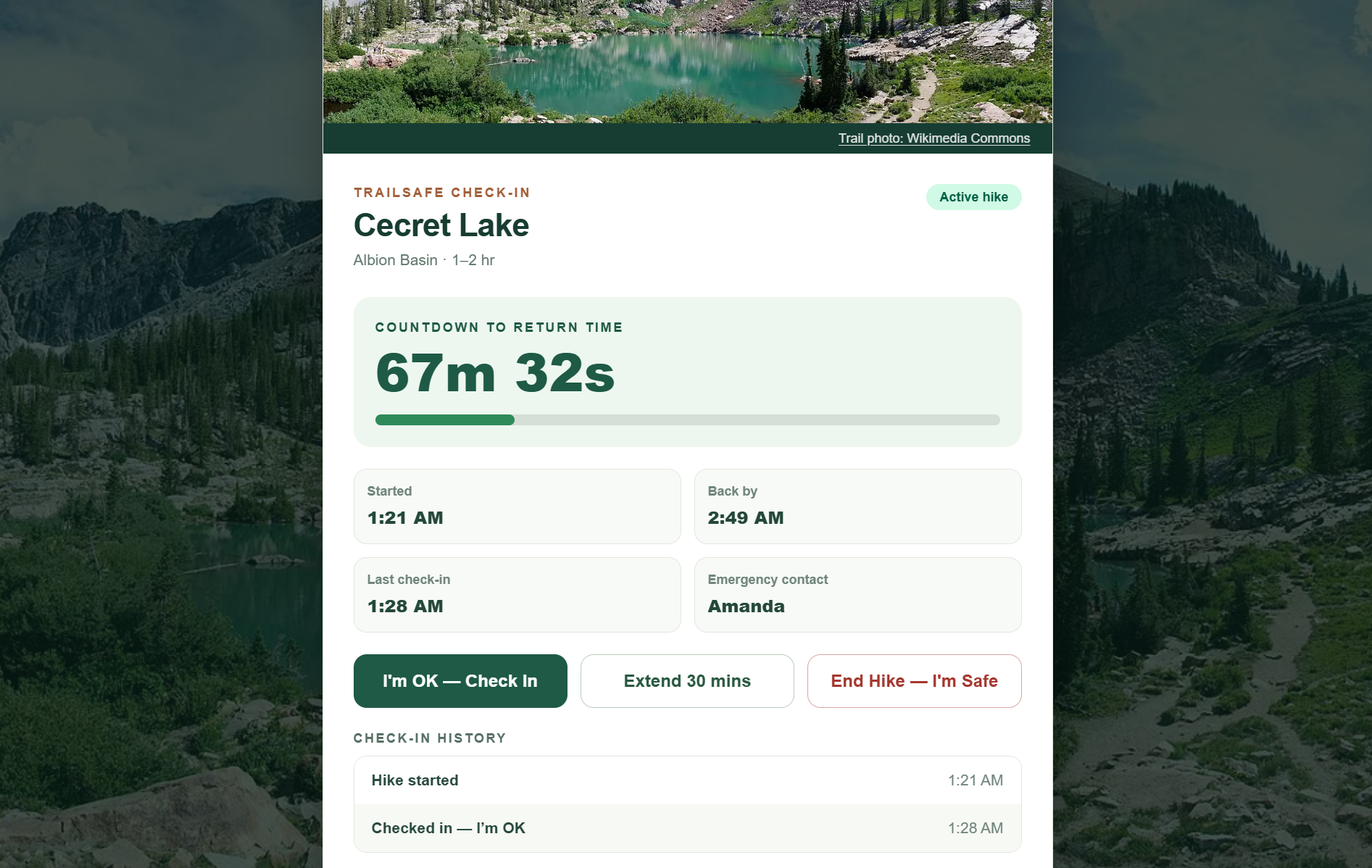
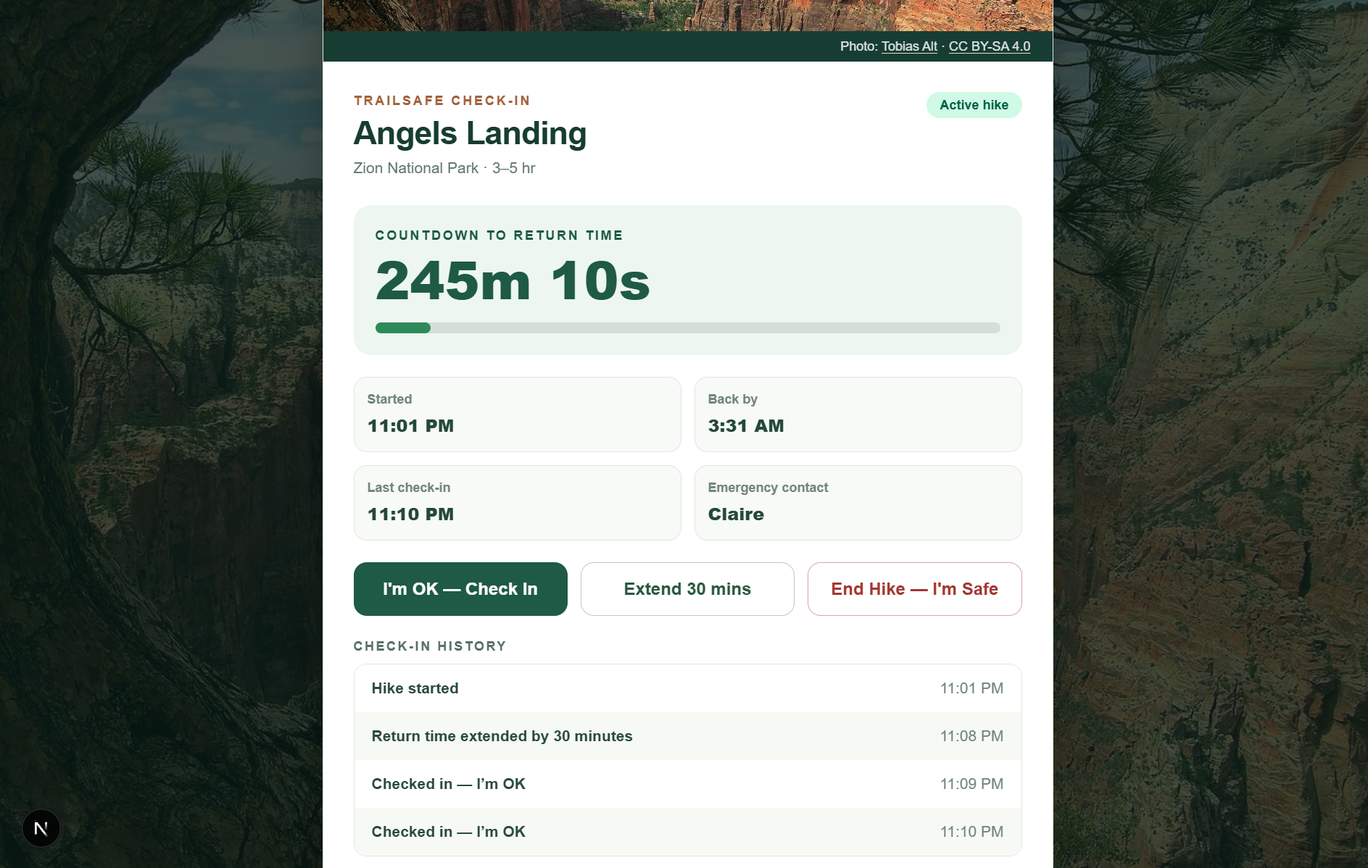
Update authentic Utah trail images and README screenshots

diff --git a/src/components/safety-flow.tsx b/src/components/safety-flow.tsx
@@ -86,7 +86,7 @@ export function SafetyFlow({ trail, assessment }: { trail: Trail; assessment: Tr
 
   if (!hydrated) return <main className="min-h-screen bg-[#f7f5ef] p-6"><div className="mx-auto h-96 max-w-2xl animate-pulse rounded-3xl bg-[#e5ece2]" /></main>;
   if (status === "alerted") return <AlertExperience trail={trail} image={museImage} imageFailed={imageFailed} alertText={alertText} contactName={contactName} contactPhone={contactPhone} alertTriggeredAt={alertTriggeredAt} onImageError={() => setImageFailed(true)} onEnd={endHike} />;
-  return <main className="relative isolate min-h-[100dvh] bg-[#102a22] px-5 py-7 sm:px-8"><ScenicBackground src={museImage?.src ?? trail.image} imageFailed={imageFailed} onImageError={() => setImageFailed(true)} /><div className="relative z-10 mx-auto max-w-2xl"><Link href={`/trails/${trail.id}`} className="inline-flex rounded-lg bg-white/90 px-2 py-1 text-sm font-bold text-[#31604d] focus-visible:outline-4 focus-visible:outline-offset-4 focus-visible:outline-[#73a98c]">← Back to trail details</Link><div className="mt-5 overflow-hidden rounded-[2rem] border border-[#dce6d9] bg-white shadow-[0_16px_45px_rgba(0,0,0,0.3)]"><div className="relative h-52"><Image src={museImage?.src ?? trail.image} alt={museImage?.alt ?? trail.imageAlt} fill sizes="(max-width: 640px) 100vw, 672px" className="object-cover" priority onError={() => setImageFailed(true)} /></div>{museImage && <a href={museImage.sourceUrl} target="_blank" rel="noreferrer" className="block bg-[#173d32] px-5 py-1.5 text-right text-xs text-white/85 underline underline-offset-2">Trail photo: Wikimedia Commons</a>}<div className="p-5 sm:p-7"><div className="flex flex-wrap items-start justify-between gap-3"><div><p className="text-xs font-bold uppercase tracking-[0.16em] text-[#a4613c]">TrailSafe check-in</p><h1 className="mt-1 text-3xl font-bold tracking-tight text-[#173d32]">{trail.name}</h1><p className="mt-1 text-sm text-[#60786d]">{trail.location} · {trail.duration}</p></div>{status === "setup" ? <SafetyBadge category={assessment.category} /> : <span className={`rounded-full px-3 py-1 text-xs font-bold ${status === "overdue" ? "bg-red-100 text-red-800" : "bg-emerald-100 text-emerald-800"}`}>{statusLabel}</span>}</div>{status === "setup" && <SetupPanel trail={trail} assessment={assessment} unavailable={isUnavailable} hikerName={hikerName} contactName={contactName} contactPhone={contactPhone} partySize={partySize} demoMode={demoMode} returnTime={returnTime} mapUrl={mapUrl} onHikerName={setHikerName} onContactName={setContactName} onContactPhone={setContactPhone} onPartySize={setPartySize} onDemoMode={setDemoMode} onReturnTime={setReturnTime} onStart={startHike} />}{status === "active" || status === "overdue" ? <ActivePanel overdue={status === "overdue"} startTime={startTime} expectedReturn={expectedReturn} lastCheckIn={lastCheckIn} virtualNow={virtualNow} demoMode={demoMode} contactName={contactName} history={history} proposedReturnTime={proposedReturnTime} deadlineError={deadlineError} onProposedReturnTime={setProposedReturnTime} onCheckIn={checkIn} onExtend={extend} onEnd={endHike} /> : null}{status === "completed" && <CompletedPanel onReset={reset} />}</div></div></div></main>;
+  return <main className="relative isolate min-h-[100dvh] bg-[#102a22] px-5 py-7 sm:px-8"><ScenicBackground src={museImage?.src ?? trail.image} imageFailed={imageFailed} onImageError={() => setImageFailed(true)} /><div className="relative z-10 mx-auto max-w-2xl"><Link href={`/trails/${trail.id}`} className="inline-flex rounded-lg bg-white/90 px-2 py-1 text-sm font-bold text-[#31604d] focus-visible:outline-4 focus-visible:outline-offset-4 focus-visible:outline-[#73a98c]">← Back to trail details</Link><div className="mt-5 overflow-hidden rounded-[2rem] border border-[#dce6d9] bg-white shadow-[0_16px_45px_rgba(0,0,0,0.3)]"><div className="relative h-52"><Image src={museImage?.src ?? trail.image} alt={museImage?.alt ?? trail.imageAlt} fill sizes="(max-width: 640px) 100vw, 672px" className="object-cover" priority onError={() => setImageFailed(true)} /></div>{museImage && <PhotoCredit image={museImage} dark /> }<div className="p-5 sm:p-7"><div className="flex flex-wrap items-start justify-between gap-3"><div><p className="text-xs font-bold uppercase tracking-[0.16em] text-[#a4613c]">TrailSafe check-in</p><h1 className="mt-1 text-3xl font-bold tracking-tight text-[#173d32]">{trail.name}</h1><p className="mt-1 text-sm text-[#60786d]">{trail.location} · {trail.duration}</p></div>{status === "setup" ? <SafetyBadge category={assessment.category} /> : <span className={`rounded-full px-3 py-1 text-xs font-bold ${status === "overdue" ? "bg-red-100 text-red-800" : "bg-emerald-100 text-emerald-800"}`}>{statusLabel}</span>}</div>{status === "setup" && <SetupPanel trail={trail} assessment={assessment} unavailable={isUnavailable} hikerName={hikerName} contactName={contactName} contactPhone={contactPhone} partySize={partySize} demoMode={demoMode} returnTime={returnTime} mapUrl={mapUrl} onHikerName={setHikerName} onContactName={setContactName} onContactPhone={setContactPhone} onPartySize={setPartySize} onDemoMode={setDemoMode} onReturnTime={setReturnTime} onStart={startHike} />}{status === "active" || status === "overdue" ? <ActivePanel overdue={status === "overdue"} startTime={startTime} expectedReturn={expectedReturn} lastCheckIn={lastCheckIn} virtualNow={virtualNow} demoMode={demoMode} contactName={contactName} history={history} proposedReturnTime={proposedReturnTime} deadlineError={deadlineError} onProposedReturnTime={setProposedReturnTime} onCheckIn={checkIn} onExtend={extend} onEnd={endHike} /> : null}{status === "completed" && <CompletedPanel onReset={reset} />}</div></div></div></main>;
 }
 
 function SetupPanel(props: { trail: Trail; assessment: TrailSafetyAssessment; unavailable: boolean; hikerName: string; contactName: string; contactPhone: string; partySize: number; demoMode: boolean; returnTime: string; mapUrl: string; onHikerName: (value: string) => void; onContactName: (value: string) => void; onContactPhone: (value: string) => void; onPartySize: (value: number) => void; onDemoMode: (value: boolean) => void; onReturnTime: (value: string) => void; onStart: () => void }) {
@@ -106,14 +106,15 @@ function ActivePanel({ overdue, startTime, expectedReturn, lastCheckIn, virtualN
 }
 
 function TimelineCard({ label, value, detail }: { label: string; value: string; detail?: string }) { return <article className="min-w-0 rounded-xl border border-[#e0e7dd] bg-[#f8faf7] p-3"><p className="text-xs font-semibold text-[#71867c]">{label}</p><p className="mt-1 truncate text-sm font-extrabold text-[#24483a] sm:text-base">{value}</p>{detail && <p className="mt-0.5 text-xs text-[#71867c]">{detail}</p>}</article>; }
+function PhotoCredit({ image, dark = false }: { image: { sourceUrl: string; photographer: string; license: string; licenseUrl: string }; dark?: boolean }) { const tone = dark ? "bg-[#173d32] text-white/85" : "text-[#47675a]"; return <p className={`block px-5 py-1.5 text-right text-xs ${tone}`}>Photo: <a href={image.sourceUrl} target="_blank" rel="noreferrer" className="underline underline-offset-2">{image.photographer}</a> · <a href={image.licenseUrl} target="_blank" rel="noreferrer" className="underline underline-offset-2">{image.license}</a></p>; }
 function ScenicBackground({ src, imageFailed, onImageError }: { src: string; imageFailed: boolean; onImageError: () => void }) { return <div className="pointer-events-none fixed inset-0 z-0 bg-[#102a22]" aria-hidden="true">{!imageFailed && <Image src={src} alt="" fill sizes="100vw" className="object-cover object-center" priority onError={onImageError} />}<div className="absolute inset-0 bg-[#071a15]/75" /></div>; }
-function AlertExperience({ trail, image, imageFailed, alertText, contactName, contactPhone, alertTriggeredAt, onImageError, onEnd }: { trail: Trail; image?: { src: string; alt: string; sourceUrl: string }; imageFailed: boolean; alertText: string; contactName: string; contactPhone: string; alertTriggeredAt: number | null; onImageError: () => void; onEnd: () => void }) {
+function AlertExperience({ trail, image, imageFailed, alertText, contactName, contactPhone, alertTriggeredAt, onImageError, onEnd }: { trail: Trail; image?: { src: string; alt: string; sourceUrl: string; photographer: string; license: string; licenseUrl: string }; imageFailed: boolean; alertText: string; contactName: string; contactPhone: string; alertTriggeredAt: number | null; onImageError: () => void; onEnd: () => void }) {
   const imageSource = image?.src ?? trail.image;
   const imageAlt = image?.alt ?? trail.imageAlt;
   const contactLabel = contactName.trim() || "Emergency contact";
   const simulatedAt = alertTriggeredAt ? formatTime(alertTriggeredAt) : "just now";
 
-  return <main className="relative isolate flex min-h-[100dvh] items-center justify-center overflow-hidden bg-[#102a22] px-4 py-6 sm:p-8"><ScenicBackground src={imageSource} imageFailed={imageFailed} onImageError={onImageError} /><section aria-labelledby="simulated-alert-heading" className="relative z-10 w-full max-w-[42rem] overflow-hidden rounded-[2rem] border border-white/20 bg-[#fffdf9] shadow-[0_28px_90px_rgba(0,0,0,0.45)]"><header className="flex items-center justify-between gap-4 px-5 py-4 sm:px-7"><p className="text-2xl font-extrabold tracking-tight text-[#173d32]">TrailSafe UT</p><span className="rounded-full bg-red-600 px-3 py-1.5 text-xs font-extrabold tracking-wide text-white">SIMULATED ALERT</span></header><div className="relative h-44 bg-[#24483a] sm:h-52">{!imageFailed && <Image src={imageSource} alt={imageAlt} fill sizes="(max-width: 672px) 100vw, 672px" className="object-cover" priority onError={onImageError} />}<div className="absolute inset-0 bg-gradient-to-t from-black/25 to-transparent" /></div><div className="space-y-5 p-5 sm:p-7"><div><p className="text-xs font-extrabold uppercase tracking-[0.18em] text-red-700">Overdue hike response</p><h1 id="simulated-alert-heading" className="mt-2 text-3xl font-extrabold tracking-tight text-red-600 sm:text-4xl">{contactLabel} — Alert Preview</h1><p className="mt-3 text-sm leading-6 text-[#4e655b]">This preview is generated from the saved hike plan. Trailhead information is planned, not live location tracking.</p></div><section aria-labelledby="alert-message-heading" className="rounded-2xl border border-red-200 bg-red-50 p-4 text-[#271510] sm:p-5"><h2 id="alert-message-heading" className="text-sm font-extrabold uppercase tracking-[0.14em] text-red-700">Simulated emergency message</h2><p className="mt-3 text-sm leading-6 sm:text-base">{alertText}</p></section><section aria-labelledby="messages-heading" className="overflow-hidden rounded-2xl border border-[#d9e3dc] bg-[#f7faf8]"><div className="flex items-start justify-between gap-3 border-b border-[#d9e3dc] bg-white px-4 py-3"><div><h2 id="messages-heading" className="font-extrabold text-[#173d32]">Messages</h2><p className="text-sm text-[#61756b]">To: {contactLabel}{contactPhone.trim() ? ` · ${contactPhone}` : " · no phone number provided"}</p></div><span className="shrink-0 rounded-full bg-[#d9f6e3] px-2.5 py-1 text-[11px] font-extrabold tracking-wide text-[#17613e]">SIMULATED SMS</span></div><div className="p-4"><div className="rounded-2xl rounded-bl-md bg-[#d9f6e3] px-4 py-3 text-sm leading-6 text-[#173d32] shadow-sm">{alertText}</div><p className="mt-3 text-right text-xs font-medium text-[#61756b]">Simulated at {simulatedAt} — No SMS was sent.</p></div></section><p className="rounded-xl border border-amber-200 bg-amber-50 px-3 py-2.5 text-center text-xs font-bold text-amber-950">Demo simulation only — no emergency message has been sent or will be sent.</p><button type="button" onClick={onEnd} className="w-full rounded-xl bg-[#173d32] px-5 py-4 text-base font-extrabold text-white transition hover:bg-[#0d2920] focus-visible:outline-4 focus-visible:outline-offset-4 focus-visible:outline-[#7db996] motion-reduce:transition-none">I&apos;m Safe — End Hike</button>{image && <a href={image.sourceUrl} target="_blank" rel="noreferrer" className="block text-center text-xs font-semibold text-[#47675a] underline underline-offset-4 focus-visible:rounded focus-visible:outline-4 focus-visible:outline-offset-2 focus-visible:outline-[#7db996]">Trail photo: Wikimedia Commons</a>}</div></section></main>;
+  return <main className="relative isolate flex min-h-[100dvh] items-center justify-center overflow-hidden bg-[#102a22] px-4 py-6 sm:p-8"><ScenicBackground src={imageSource} imageFailed={imageFailed} onImageError={onImageError} /><section aria-labelledby="simulated-alert-heading" className="relative z-10 w-full max-w-[42rem] overflow-hidden rounded-[2rem] border border-white/20 bg-[#fffdf9] shadow-[0_28px_90px_rgba(0,0,0,0.45)]"><header className="flex items-center justify-between gap-4 px-5 py-4 sm:px-7"><p className="text-2xl font-extrabold tracking-tight text-[#173d32]">TrailSafe UT</p><span className="rounded-full bg-red-600 px-3 py-1.5 text-xs font-extrabold tracking-wide text-white">SIMULATED ALERT</span></header><div className="relative h-44 bg-[#24483a] sm:h-52">{!imageFailed && <Image src={imageSource} alt={imageAlt} fill sizes="(max-width: 672px) 100vw, 672px" className="object-cover" priority onError={onImageError} />}<div className="absolute inset-0 bg-gradient-to-t from-black/25 to-transparent" /></div>{image && <PhotoCredit image={image} />}<div className="space-y-5 p-5 sm:p-7"><div><p className="text-xs font-extrabold uppercase tracking-[0.18em] text-red-700">Overdue hike response</p><h1 id="simulated-alert-heading" className="mt-2 text-3xl font-extrabold tracking-tight text-red-600 sm:text-4xl">{contactLabel} — Alert Preview</h1><p className="mt-3 text-sm leading-6 text-[#4e655b]">This preview is generated from the saved hike plan. Trailhead information is planned, not live location tracking.</p></div><section aria-labelledby="alert-message-heading" className="rounded-2xl border border-red-200 bg-red-50 p-4 text-[#271510] sm:p-5"><h2 id="alert-message-heading" className="text-sm font-extrabold uppercase tracking-[0.14em] text-red-700">Simulated emergency message</h2><p className="mt-3 text-sm leading-6 sm:text-base">{alertText}</p></section><section aria-labelledby="messages-heading" className="overflow-hidden rounded-2xl border border-[#d9e3dc] bg-[#f7faf8]"><div className="flex items-start justify-between gap-3 border-b border-[#d9e3dc] bg-white px-4 py-3"><div><h2 id="messages-heading" className="font-extrabold text-[#173d32]">Messages</h2><p className="text-sm text-[#61756b]">To: {contactLabel}{contactPhone.trim() ? ` · ${contactPhone}` : " · no phone number provided"}</p></div><span className="shrink-0 rounded-full bg-[#d9f6e3] px-2.5 py-1 text-[11px] font-extrabold tracking-wide text-[#17613e]">SIMULATED SMS</span></div><div className="p-4"><div className="rounded-2xl rounded-bl-md bg-[#d9f6e3] px-4 py-3 text-sm leading-6 text-[#173d32] shadow-sm">{alertText}</div><p className="mt-3 text-right text-xs font-medium text-[#61756b]">Simulated at {simulatedAt} — No SMS was sent.</p></div></section><p className="rounded-xl border border-amber-200 bg-amber-50 px-3 py-2.5 text-center text-xs font-bold text-amber-950">Demo simulation only — no emergency message has been sent or will be sent.</p><button type="button" onClick={onEnd} className="w-full rounded-xl bg-[#173d32] px-5 py-4 text-base font-extrabold text-white transition hover:bg-[#0d2920] focus-visible:outline-4 focus-visible:outline-offset-4 focus-visible:outline-[#7db996] motion-reduce:transition-none">I&apos;m Safe — End Hike</button></div></section></main>;
 }
 function CompletedPanel({ onReset }: { onReset: () => void }) { return <div className="mt-8 text-center"><p className="text-5xl">✓</p><h2 className="mt-3 text-3xl font-bold text-[#173d32]">Hike ended safely.</h2><p className="mt-3 text-[#60786d]">Your local demo hike record has been cleared. No messages were sent.</p><button type="button" onClick={onReset} className="mt-6 rounded-xl bg-[#1e5a45] px-5 py-3 font-bold text-white">Start a new hike</button></div>; }
 function History({ history }: { history: CheckIn[] }) { return <section><p className="text-xs font-bold uppercase tracking-[0.14em] text-[#587166]">Check-in history</p><div className="mt-2 overflow-hidden rounded-xl border border-[#e0e7dd]">{history.map((item) => <div key={item.id} className="flex items-center justify-between bg-white px-4 py-3 text-sm even:bg-[#f7f9f5]"><span className="font-semibold text-[#294a3e]">{item.label}</span><span className="text-[#71867c]">{formatTime(item.at)}</span></div>)}</div></section>; }

diff --git a/src/data/muse-images.ts b/src/data/muse-images.ts
@@ -2,50 +2,76 @@ type MuseTrailImage = {
   src: string;
   alt: string;
   sourceUrl: string;
+  photographer: string;
+  license: string;
+  licenseUrl: string;
 };
 
-// Original, trail-specific image references supplied with the Muse handoff.
-// Each source link leads to the Wikimedia Commons file page, including author
-// and current reuse terms. These stay separate from the canonical trail data.
+// Verified trail-specific Wikimedia Commons image records. The local assets
+// were downloaded from the linked Commons source pages and keep their credit.
 export const museTrailImages: Record<string, MuseTrailImage> = {
   "donut-falls": {
-    src: "https://upload.wikimedia.org/wikipedia/commons/thumb/5/5d/20170116-FS-UWC_NF-NL-Hike_to_donut_falls_%2823807302398%29.jpg/1280px-20170116-FS-UWC_NF-NL-Hike_to_donut_falls_%2823807302398%29.jpg",
+    src: "/trails/donut-falls.jpg",
     alt: "Hike to Donut Falls in Big Cottonwood Canyon, Utah",
     sourceUrl: "https://commons.wikimedia.org/wiki/File:20170116-FS-UWC_NF-NL-Hike_to_donut_falls_(23807302398).jpg",
+    photographer: "Nate Lowe / U.S. Forest Service",
+    license: "Public domain (U.S. federal government work)",
+    licenseUrl: "https://www.usa.gov/government-copyright",
   },
   "lake-blanche": {
-    src: "https://upload.wikimedia.org/wikipedia/commons/thumb/c/c1/Sundial_Peak_and_snowy_ridges_above_Lake_Blanche%2C_Twin_Peaks_Wilderness%2C_Utah.jpg/1280px-Sundial_Peak_and_snowy_ridges_above_Lake_Blanche%2C_Twin_Peaks_Wilderness%2C_Utah.jpg",
+    src: "/trails/lake-blanche.jpg",
     alt: "Sundial Peak and snowy ridges above Lake Blanche, Utah",
     sourceUrl: "https://commons.wikimedia.org/wiki/File:Sundial_Peak_and_snowy_ridges_above_Lake_Blanche,_Twin_Peaks_Wilderness,_Utah.jpg",
+    photographer: "Z3lvs",
+    license: "CC0 1.0",
+    licenseUrl: "https://creativecommons.org/publicdomain/zero/1.0/",
   },
   "mount-timpanogos": {
-    src: "https://upload.wikimedia.org/wikipedia/commons/thumb/a/aa/Mount_Timpanogos_from_Mount_Timpanogos_Trail_approaching_the_saddle.jpg/1280px-Mount_Timpanogos_from_Mount_Timpanogos_Trail_approaching_the_saddle.jpg",
+    src: "/trails/mount-timpanogos.jpg",
     alt: "Mount Timpanogos from the trail approaching the saddle",
     sourceUrl: "https://commons.wikimedia.org/wiki/File:Mount_Timpanogos_from_Mount_Timpanogos_Trail_approaching_the_saddle.jpg",
+    photographer: "Brian Smith",
+    license: "CC BY-SA 3.0",
+    licenseUrl: "https://creativecommons.org/licenses/by-sa/3.0/",
   },
   "angels-landing": {
-    src: "https://upload.wikimedia.org/wikipedia/commons/thumb/9/9e/Angels_Landing.jpg/1280px-Angels_Landing.jpg",
+    src: "/trails/angels-landing.jpg",
     alt: "Angels Landing in Zion National Park, Utah",
     sourceUrl: "https://commons.wikimedia.org/wiki/File:Angels_Landing.jpg",
+    photographer: "Tobias Alt",
+    license: "CC BY-SA 4.0",
+    licenseUrl: "https://creativecommons.org/licenses/by-sa/4.0/",
   },
   "the-narrows": {
-    src: "https://upload.wikimedia.org/wikipedia/commons/2/2a/Zion_Narrows.jpg",
+    src: "/trails/the-narrows.jpg",
     alt: "The Narrows canyon in Zion National Park, Utah",
     sourceUrl: "https://commons.wikimedia.org/wiki/File:Zion_Narrows.jpg",
+    photographer: "Jon Sullivan",
+    license: "Public domain",
+    licenseUrl: "https://creativecommons.org/publicdomain/mark/1.0/",
   },
   "frary-peak": {
-    src: "https://upload.wikimedia.org/wikipedia/commons/thumb/e/e1/Antelope_Island_State_Park_-_Frary_Peak_ridge_01.jpg/1280px-Antelope_Island_State_Park_-_Frary_Peak_ridge_01.jpg",
+    src: "/trails/frary-peak.jpg",
     alt: "Frary Peak ridge on Antelope Island State Park, Utah",
     sourceUrl: "https://commons.wikimedia.org/wiki/File:Antelope_Island_State_Park_-_Frary_Peak_ridge_01.jpg",
+    photographer: "Z3lvs",
+    license: "CC0 1.0",
+    licenseUrl: "https://creativecommons.org/publicdomain/zero/1.0/",
   },
   "delicate-arch": {
-    src: "https://upload.wikimedia.org/wikipedia/commons/thumb/5/52/Delicate_Arch_in_Arches_National_Park_3.jpg/1280px-Delicate_Arch_in_Arches_National_Park_3.jpg",
+    src: "/trails/delicate-arch.jpg",
     alt: "Delicate Arch in Arches National Park, Utah",
     sourceUrl: "https://commons.wikimedia.org/wiki/File:Delicate_Arch_in_Arches_National_Park_3.jpg",
+    photographer: "Jonathan Zander (Digon3)",
+    license: "CC BY-SA 3.0",
+    licenseUrl: "https://creativecommons.org/licenses/by-sa/3.0/",
   },
   "cecret-lake": {
-    src: "https://upload.wikimedia.org/wikipedia/commons/thumb/c/cb/Cecret_Lake_Panorama_Albion_Basin_Alta_Utah_July_2009.jpg/1280px-Cecret_Lake_Panorama_Albion_Basin_Alta_Utah_July_2009.jpg",
+    src: "/trails/cecret-lake.jpg",
     alt: "Cecret Lake panorama in Albion Basin, Alta, Utah",
     sourceUrl: "https://commons.wikimedia.org/wiki/File:Cecret_Lake_Panorama_Albion_Basin_Alta_Utah_July_2009.jpg",
+    photographer: "Jeffrey McGrath",
+    license: "CC BY-SA 3.0",
+    licenseUrl: "https://creativecommons.org/licenses/by-sa/3.0/",
   },
 };

diff --git a/src/data/trails.ts b/src/data/trails.ts
@@ -1,5 +1,6 @@
 
 import type { Trail } from "@/types/trail";
+import { museTrailImages } from "./muse-images.ts";
 
 // Demo-only content. Replace safetyScore with the data/scoring team's live result.
 export const trails: Trail[] = [
@@ -7,8 +8,8 @@ export const trails: Trail[] = [
     id: "donut-falls",
     name: "Donut Falls",
     location: "Big Cottonwood Canyon",
-    image: "https://images.unsplash.com/photo-1464822759023-fed622ff2c3b?auto=format&fit=crop&w=1200&q=85",
-    imageAlt: "Snowy mountain ridge above an alpine forest",
+    image: museTrailImages["donut-falls"].src,
+    imageAlt: museTrailImages["donut-falls"].alt,
     distanceMiles: 3.5,
     elevationGainFeet: 500,
     latitude: 40.649,
@@ -25,8 +26,8 @@ export const trails: Trail[] = [
     id: "lake-blanche",
     name: "Lake Blanche",
     location: "Big Cottonwood Canyon",
-    image: "https://images.unsplash.com/photo-1439853949127-fa647821eba0?auto=format&fit=crop&w=1200&q=85",
-    imageAlt: "Mountain lake beneath a rugged peak",
+    image: museTrailImages["lake-blanche"].src,
+    imageAlt: museTrailImages["lake-blanche"].alt,
     distanceMiles: 6.9,
     elevationGainFeet: 2700,
     latitude: 40.6373,
@@ -43,8 +44,8 @@ export const trails: Trail[] = [
     id: "mount-timpanogos",
     name: "Mount Timpanogos (Timpooneke)",
     location: "Wasatch Range",
-    image: "https://images.unsplash.com/photo-1464278533981-50106e6176b1?auto=format&fit=crop&w=1200&q=85",
-    imageAlt: "Hikers walking through a mountain valley",
+    image: museTrailImages["mount-timpanogos"].src,
+    imageAlt: museTrailImages["mount-timpanogos"].alt,
     distanceMiles: 14.5,
     elevationGainFeet: 4700,
     latitude: 40.4335,
@@ -61,8 +62,8 @@ export const trails: Trail[] = [
     id: "angels-landing",
     name: "Angels Landing",
     location: "Zion National Park",
-    image: "https://images.unsplash.com/photo-1511497584788-876760111969?auto=format&fit=crop&w=1200&q=85",
-    imageAlt: "Sunlit red rock canyon cliffs",
+    image: museTrailImages["angels-landing"].src,
+    imageAlt: museTrailImages["angels-landing"].alt,
     distanceMiles: 5.4,
     elevationGainFeet: 1500,
     latitude: 37.2596,
@@ -79,8 +80,8 @@ export const trails: Trail[] = [
     id: "the-narrows",
     name: "The Narrows",
     location: "Zion National Park",
-    image: "https://images.unsplash.com/photo-1476231682828-37e571bc172f?auto=format&fit=crop&w=1200&q=85",
-    imageAlt: "Narrow sandstone canyon with a river",
+    image: museTrailImages["the-narrows"].src,
+    imageAlt: museTrailImages["the-narrows"].alt,
     distanceMiles: 9.4,
     elevationGainFeet: 334,
     latitude: 37.2982,
@@ -98,8 +99,8 @@ export const trails: Trail[] = [
     id: "frary-peak",
     name: "Antelope Island — Frary Peak",
     location: "Antelope Island State Park",
-    image: "https://images.unsplash.com/photo-1494548162494-384bba4ab999?auto=format&fit=crop&w=1200&q=85",
-    imageAlt: "Rolling golden hills beneath open sky",
+    image: museTrailImages["frary-peak"].src,
+    imageAlt: museTrailImages["frary-peak"].alt,
     distanceMiles: 6.6,
     elevationGainFeet: 2100,
     latitude: 40.9662,
@@ -116,8 +117,8 @@ export const trails: Trail[] = [
     id: "delicate-arch",
     name: "Delicate Arch",
     location: "Arches National Park",
-    image: "https://images.unsplash.com/photo-1532274402911-5a369e4c4bb5?auto=format&fit=crop&w=1200&q=85",
-    imageAlt: "Desert rock formations in warm evening light",
+    image: museTrailImages["delicate-arch"].src,
+    imageAlt: museTrailImages["delicate-arch"].alt,
     distanceMiles: 3.2,
     elevationGainFeet: 629,
     latitude: 38.735084,
@@ -134,8 +135,8 @@ export const trails: Trail[] = [
     id: "cecret-lake",
     name: "Cecret Lake",
     location: "Albion Basin",
-    image: "https://images.unsplash.com/photo-1500534623283-312aade485b7?auto=format&fit=crop&w=1200&q=85",
-    imageAlt: "Alpine meadow and mountain landscape",
+    image: museTrailImages["cecret-lake"].src,
+    imageAlt: museTrailImages["cecret-lake"].alt,
     distanceMiles: 1.8,
     elevationGainFeet: 465,
     latitude: 40.5737,

diff --git a/next.config.ts b/next.config.ts
@@ -12,20 +12,6 @@ const nextConfig: NextConfig = {
       },
     },
   },
-  images: {
-    remotePatterns: [
-      {
-        protocol: "https",
-        hostname: "images.unsplash.com",
-        pathname: "/**",
-      },
-      {
-        protocol: "https",
-        hostname: "upload.wikimedia.org",
-        pathname: "/**",
-      },
-    ],
-  },
 };
 
 export default nextConfig;

diff --git a/README.md b/README.md
@@ -144,7 +144,18 @@ The application was delivered as a collaborative team effort across the experien
 - Weather data: [Open-Meteo](https://open-meteo.com/)
 - Avalanche advisories: [Utah Avalanche Center](https://utahavalanchecenter.org/)
 - Maps: [OpenStreetMap](https://www.openstreetmap.org/)
-- Trail imagery: [Unsplash](https://unsplash.com/) and [Wikimedia Commons](https://commons.wikimedia.org/)
+- Trail imagery: verified [Wikimedia Commons](https://commons.wikimedia.org/) photographs (source and license links below)
 - Trailhead-coordinate references are recorded with the curated trail data.
 
-Wikimedia Commons images retain their individual source links in the application. Review the applicable source and license terms before redistributing imagery.
+All trail cards, trail detail pages, hike screens, scenic backgrounds, and simulated-alert previews use the same verified local image per trail. The JPEG derivatives live in `public/trails/` (1,280px wide, except the Narrows at 1,024px); attribution links appear in the hike and alert interfaces.
+
+| Trail | Photographer | License | Source |
+| --- | --- | --- | --- |
+| Donut Falls | Nate Lowe / U.S. Forest Service | Public domain (U.S. federal government work) | [Wikimedia Commons](https://commons.wikimedia.org/wiki/File:20170116-FS-UWC_NF-NL-Hike_to_donut_falls_(23807302398).jpg) |
+| Lake Blanche | Z3lvs | [CC0 1.0](https://creativecommons.org/publicdomain/zero/1.0/) | [Wikimedia Commons](https://commons.wikimedia.org/wiki/File:Sundial_Peak_and_snowy_ridges_above_Lake_Blanche,_Twin_Peaks_Wilderness,_Utah.jpg) |
+| Mount Timpanogos | Brian Smith | [CC BY-SA 3.0](https://creativecommons.org/licenses/by-sa/3.0/) | [Wikimedia Commons](https://commons.wikimedia.org/wiki/File:Mount_Timpanogos_from_Mount_Timpanogos_Trail_approaching_the_saddle.jpg) |
+| Angels Landing | Tobias Alt | [CC BY-SA 4.0](https://creativecommons.org/licenses/by-sa/4.0/) | [Wikimedia Commons](https://commons.wikimedia.org/wiki/File:Angels_Landing.jpg) |
+| The Narrows | Jon Sullivan | Public domain | [Wikimedia Commons](https://commons.wikimedia.org/wiki/File:Zion_Narrows.jpg) |
+| Frary Peak | Z3lvs | [CC0 1.0](https://creativecommons.org/publicdomain/zero/1.0/) | [Wikimedia Commons](https://commons.wikimedia.org/wiki/File:Antelope_Island_State_Park_-_Frary_Peak_ridge_01.jpg) |
+| Delicate Arch | Jonathan Zander (Digon3) | [CC BY-SA 3.0](https://creativecommons.org/licenses/by-sa/3.0/) | [Wikimedia Commons](https://commons.wikimedia.org/wiki/File:Delicate_Arch_in_Arches_National_Park_3.jpg) |
+| Cecret Lake | Jeffrey McGrath | [CC BY-SA 3.0](https://creativecommons.org/licenses/by-sa/3.0/) | [Wikimedia Commons](https://commons.wikimedia.org/wiki/File:Cecret_Lake_Panorama_Albion_Basin_Alta_Utah_July_2009.jpg) |
